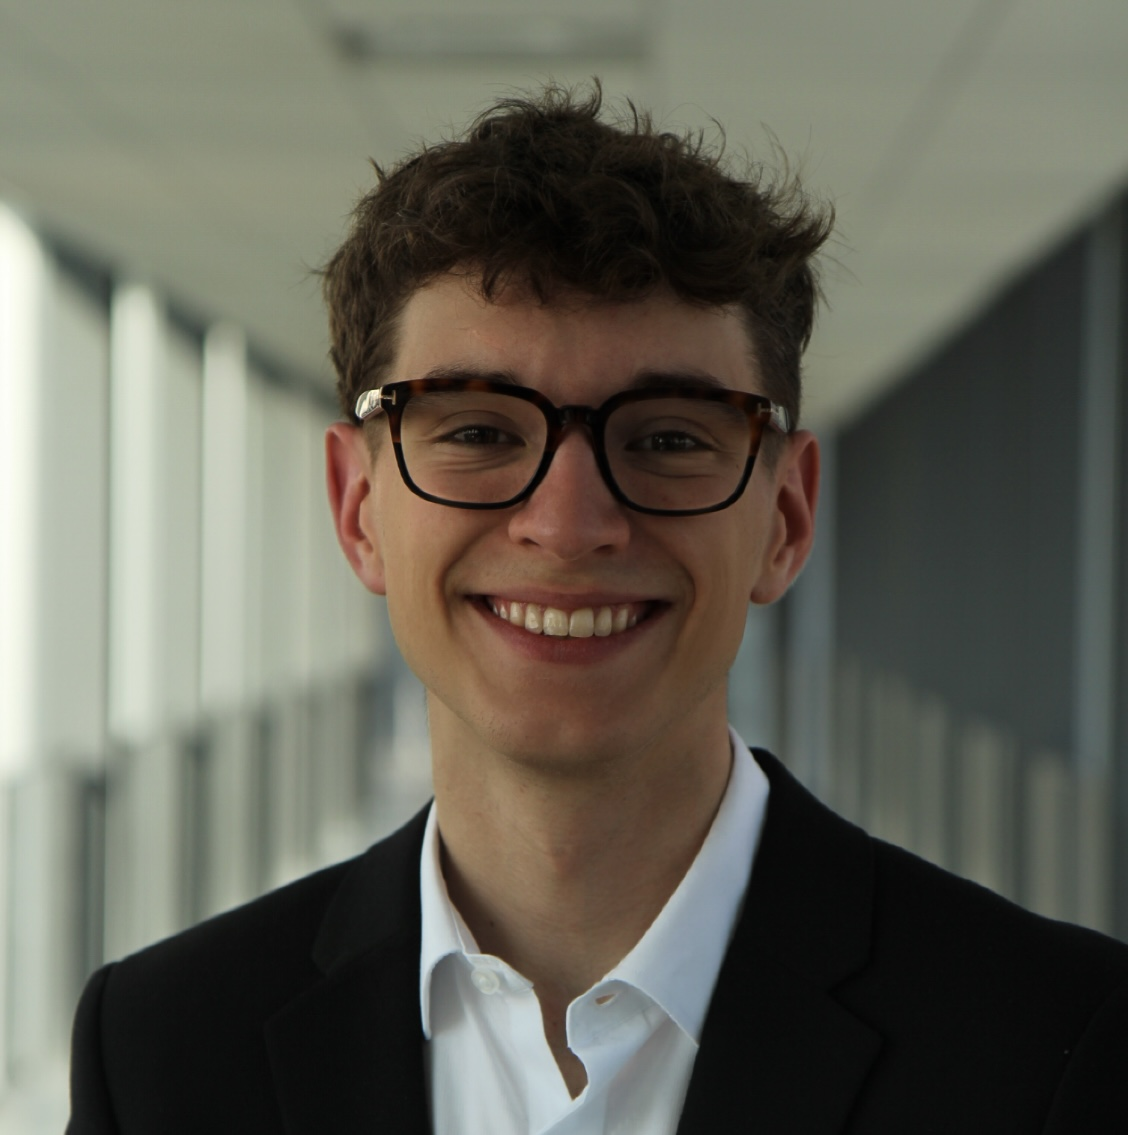
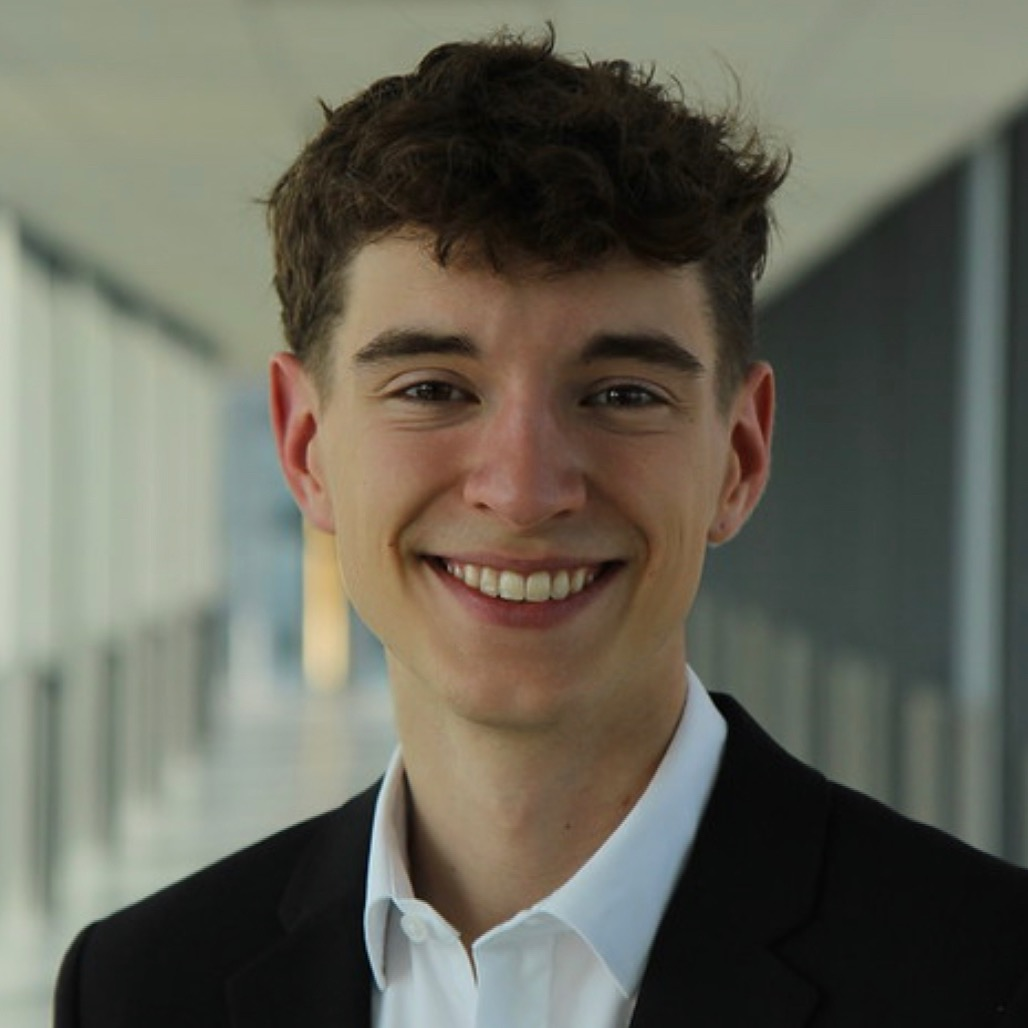
New UI and updates

diff --git a/components/Navbar.jsx b/components/Navbar.jsx
@@ -1,68 +1,83 @@
 import Image from 'next/image';
 import Link from 'next/link';
-import {AiOutlineMenu, AiOutlineClose, AiOutlineMail} from 'react-icons/ai'
-import {FaGithub, FaLinkedinIn} from 'react-icons/fa'
-import React, {useState, useEffect} from 'react'
-import logoIcon from '../public/Assets/mainlogo.png'
+import { AiOutlineMenu, AiOutlineClose, AiOutlineMail } from 'react-icons/ai';
+import { FaGithub, FaLinkedinIn } from 'react-icons/fa';
+import React, { useState, useEffect } from 'react';
+import logoIcon from '../public/Assets/mainlogo.png';
 
 const Navbar = () => {
-    const [nav, setNav] = useState(false)
-    const [shadow, setShadow] = useState(false)
+    const [nav, setNav] = useState(false);
+    const [shadow, setShadow] = useState(false);
+    const [navbarVisible, setNavbarVisible] = useState(false);
+    const [linksVisible, setLinksVisible] = useState(false); // State to control the visibility of the links
 
     const handleNav = () => {
-        setNav(!nav)
-    }
+        setNav(!nav);
+    };
 
     useEffect(() => {
-        const handleShadow = () => {
-            if (window.scrollY >= 90) {
-                setShadow(true)
-            } else {
-                setShadow(false)
-            }
-        }
-        window.addEventListener('scroll', handleShadow)
-    },[])
+        const handleScroll = () => {
+            const navbarHeight = 80;
+            const show = window.scrollY > (window.innerHeight - navbarHeight);
+            setShadow(show);
+            setNavbarVisible(show);
+            setLinksVisible(show);
+        };
 
-  return (
-    <div className={shadow ? 'fixed w-full h-20 shadow-xl z-[100]' : 'fixed w-full h-20 z-[100]'}>
-        <div className='flex justify-between items-center w-full h-full px-2 2xl:px-16 scroll-smooth bg-gray-100'>
-            <div className='mx-5'>
-            <Link href='/'>
-            <Image 
-                src={logoIcon}
-                alt="/" 
-                width='50' 
-                height='50'
-            />
-            </Link>
-            </div>
-            <div className='mx-5'>
-                <ul className='hidden md:flex'>
-                    <Link href='/'>
-                        <li onClick={()=> setNav(false)} className='ml-10 text-sm uppercase hover:border-b'>Home</li>
-                    </Link>
-                    <Link href='/#about'>
-                        <li onClick={()=> setNav(false)} className='ml-10 text-sm uppercase hover:border-b'>About</li>
-                    </Link>
-                    <Link href='/#work'>
-                        <li onClick={()=> setNav(false)} className='ml-10 text-sm uppercase hover:border-b'>Work</li>
-                    </Link>
-                    <Link href='/#projects'>
-                        <li onClick={()=> setNav(false)} className='ml-10 text-sm uppercase hover:border-b'>Projects</li>
-                    </Link>
-                    <Link href='/#skills'>
-                        <li onClick={()=> setNav(false)} className='ml-10 text-sm uppercase hover:border-b'>Skills</li>
-                    </Link>
-                    <Link href='/#contact'>
-                        <li onClick={()=> setNav(false)} className='ml-10 text-sm uppercase hover:border-b'>Contact</li>
-                    </Link>
-                </ul>
-                <div onClick={handleNav} className='md:hidden p-3 cursor-pointer'>
-                    <AiOutlineMenu size={25} />
+        window.addEventListener('scroll', handleScroll);
+        return () => window.removeEventListener('scroll', handleScroll);
+    }, []);
+
+    const scrollToSection = (sectionId) => {
+        const section = document.getElementById(sectionId);
+        if (section) {
+            section.scrollIntoView({ behavior: 'smooth', block: 'start' });
+        }
+        };
+
+    <li onClick={() => scrollToSection('work')} className='ml-10 text-sm uppercase hover:border-b cursor-pointer'>Work</li>
+
+    return (
+        <div className={`fixed w-full h-20 z-[100] transition-all duration-300 ${navbarVisible ? 'bg-gray-100 shadow-xl' : 'bg-transparent'}`}>
+            <div className='flex justify-between items-center w-full h-full px-2 2xl:px-16'>
+                <Link href='/' passHref>
+                    <div className='flex items-center cursor-pointer'>
+                        <Image 
+                            src={logoIcon}
+                            alt="/" 
+                            width='50' 
+                            height='50'
+                        />
+                    </div>
+                </Link>
+                <div>
+                    {linksVisible && (
+                        <ul className='hidden md:flex'>
+                            <li className='ml-10 text-sm uppercase hover:border-b cursor-pointer'>
+                                <Link href='/'>Home</Link>
+                            </li>
+                            <li className='ml-10 text-sm uppercase hover:border-b cursor-pointer'>
+                                <Link href='/#about'>About</Link>
+                            </li>
+                            <li className='ml-10 text-sm uppercase hover:border-b cursor-pointer'>
+                                <Link href='/#work'>Work</Link>
+                            </li>
+                            <li className='ml-10 text-sm uppercase hover:border-b cursor-pointer'>
+                                <Link href='/#projects'>Projects</Link>
+                            </li>
+                            <li className='ml-10 text-sm uppercase hover:border-b cursor-pointer'>
+                                <Link href='/#skills'>Skills</Link>
+                            </li>
+                            <li className='ml-10 text-sm uppercase hover:border-b cursor-pointer'>
+                                <Link href='/#contact'>Contact</Link>
+                            </li>
+                        </ul>
+                    )}
+                    <div onClick={handleNav} className='md:hidden p-3 cursor-pointer'>
+                        <AiOutlineMenu size={25} />
+                    </div>
                 </div>
             </div>
-        </div>
     <div className={nav ? 'md:hidden fixed left-0 top-0 w-full h-screen bg-black/70' : ''}>
         <div className={nav ? 'fixed left-0 top-0 w-[75%] sm:w-[60%] md:w-[45%] h-screen bg-[#ecf0f3] p-10 ease-in duration-500' : 'fixed left-[-100%] top-0 p-10 ease-in duration-500'}>
             <div>

diff --git a/components/Main.jsx b/components/Main.jsx
@@ -9,13 +9,13 @@ import mPageMobile from '../public/Assets/fronttit-mobile.png';
 
 const Main = () => {
   return (
-    <div id='home' className='w-full h-screen text-center relative flex flex-col items-center justify-center'>
-        <div className='hidden lg:block absolute top-0 left-0 min-w-full min-h-full z-0'>
-            <video autoPlay loop muted className='min-w-full min-h-full'>
+    <div id='home' className='w-full h-screen text-center flex flex-col items-center justify-center relative'>
+        <div className='hidden lg:block absolute top-0 left-0 w-full h-full z-0'>
+            <video autoPlay loop muted className='w-full h-full object-cover'>
                 <source src="/Assets/backG.mp4" type="video/mp4" />
             </video>
         </div>
-        <div className='max-w-[1240px] w-full h-full mx-auto p-2 z-10 relative flex flex-col items-center justify-center pt-32'>
+        <div className='max-w-[1240px] w-full h-full mx-auto p-2 z-10 relative flex flex-col items-center justify-center'>
             <div className='lg:hidden w-full flex justify-center'>
                 <Image
                 src={mPageMobile}
@@ -24,11 +24,11 @@ const Main = () => {
                 width={800}
                 />
             </div>
-            <div className='hidden lg:flex justify-center w-full'>
+            <div className='hidden lg:flex justify-center w-full pt-12'>
                 <Image
                 src={mPage}
                 alt='/'
-                height={800}
+                height={1000}
                 width={800}
                 />
             </div>
@@ -37,25 +37,22 @@ const Main = () => {
                     <div className='p-2 cursor-pointer hover:scale-150 ease-in duration-300 hover:border-b rounded-full bg-transparent xl:bg-white mx-4'>
                         <FaLinkedin />
                     </div>
-                </Link>
-                <Link href="https://github.com/AidanBilon" target="_blank">
+                    </Link>
+                    <Link href="https://github.com/AidanBilon" target="_blank">
                     <div className='p-2 cursor-pointer hover:scale-150 ease-in duration-300 hover:border-b rounded-full bg-transparent xl:bg-white mx-4'>
                         <FaGithub />
                     </div>
-                </Link>
-                <Link href="mailto:aidanbilon@gmail.com" target="_blank">
+                    </Link>
+                    <Link href="mailto:aidanbilon@gmail.com" target="_blank">
                     <div className='p-2 cursor-pointer hover:scale-150 ease-in duration-300 hover:border-b rounded-full bg-transparent xl:bg-white mx-4'>
                         <AiOutlineMail />
                     </div>
                 </Link>
             </div>
-            <h1 className='py-4'></h1>
             <Link href='/#about'>
                 <div className='text-black xl:text-white w-auto text-sm flex flex-col items-center font-extrabold'>
                     <p>Scroll Down</p>
-                    <div className='p-4 flex justify-center'>
-                        <IoIosArrowDown className='text-black xl:text-white'/>
-                    </div>
+                    <IoIosArrowDown className='text-black xl:text-white animate-bounce'/>
                 </div>
             </Link>
         </div>

diff --git a/components/About.jsx b/components/About.jsx
@@ -19,7 +19,7 @@ const About = () => {
         <div className='max-w-[1200px] m-auto md:grid grid-cols-3 gap-8'>
             <div className='col-span-2'>
                 <p className='uppercase text-2xl font-extrabold py-4'>About Me</p>
-                <p className='text-sm font-medium'>Welcome to my website portfolio! I&apos;m an engineering student at the University of Waterloo, interested in software development. I have experience and interest in ML/AI, and full-stack development. Additionally, I&apos;m looking into learning software integration in robotic development.</p>
+                <p className='text-sm font-medium'>Welcome to my website portfolio! I&apos;m an engineering student at the University of Waterloo, interested in software development. I have experience in Artificial Intelligence and all things autonomous robotics. Additionally, I&apos;m working software integration and embedded systems in robotic development.</p>
                 <p className='text-lg font-extrabold pt-4'>Website Tech Stack</p>
                 <div className='flex space-x-4'>
                   <Image
@@ -47,12 +47,10 @@ const About = () => {
                   height={30}
                   />
                 </div>
-                <p className='text-lg font-extrabold pt-4'>Skills</p>
-                <p className='py-2 text-sm font-medium'>To find associated skills in programming, web dev, and AI, scroll down (or click) and select the each skill.</p>
                 <p className='text-lg font-extrabold pt-4'>Projects</p>
-                <p className='py-2 text-sm font-medium'>The main page project section only highlights new projects that I&apos;ve worked on recently, click in the projects ssection to look at some other things I&apos;ve been working on.</p>
+                <p className='py-2 text-sm font-medium'>The main page project section only highlights new projects that I&apos;ve worked on recently, click on the projects section to look at some other things I&apos;ve been working on.</p>
             </div>
-            <div className='w-full h-auto m-auto rounded-md items-center justify-center fill'>
+            <div className='w-full h-auto m-auto rounded-md items-center justify-center fill border-solid border-4 border-black'>
                 <Image 
                 src={profPic} 
                 alt='/' 

diff --git a/components/Work.jsx b/components/Work.jsx
@@ -4,18 +4,17 @@ import Image from 'next/image';
 import Pwo from '../public/Assets/pwo.png';
 import Wsp from '../public/Assets/WSP_logo.png';
 import Rocket from '../public/Assets/rocketry.png';
-import water from '../public/Assets/water.png'
 
 const Work = () => {
-  return (
-    <div id='work' className='w-full md:h-screen p-2 flex items-center px-16'>
+    return (
+      <div id='work' className='w-full min-h-screen p-2 flex items-center py-16 px-16'>
       <Head>
         <title>Work Experience</title>
         <meta name="description" content="Relevant Industry Experience"></meta>
         <meta name="keywords" content="Aidan Bilon, Engineering Resume"></meta>
         <meta name="robots" content="index,follow"/>
       </Head>
-        <div className='max-w-[1200px] m-auto md:grid grid-cols-3 gap-8'>
+      <div className='max-w-[1200px] m-auto grid grid-cols-1 md:grid-cols-3 gap-8'>
             <div className='col-span-2'>
                 <p className='uppercase text-2xl font-extrabold'>Real-Time Embedded Software Group</p>
                 <p className='text-md font-bold'>Lead Autonomous Robotics Research Assistant</p>

diff --git a/components/Projects.jsx b/components/Projects.jsx
@@ -9,15 +9,15 @@ import car from '../public/Assets/carvroom.jpeg';
 
 const Projects = () => {
   return (
-    <div id='projects' className='w-full py-96'>
+    <div id='projects' className='w-full py-16'>
       <Head>
         <title>Projects</title>
         <meta name="description" content="Personal Projects"></meta>
         <meta name="keywords" content="Aidan Bilon, Engineering Resume"></meta>
         <meta name="robots" content="index,follow"/>
       </Head>
-        <div className='max-w-[1200px] mx-auto px-2 py-16'>
-            <p className='uppercase text-2xl font-extrabold pb-8'>Projects</p>
+      <div className='max-w-[1200px] mx-auto px-2'>
+        <p className='uppercase text-2xl font-extrabold pb-8'>Projects</p>
             <div className='grid md:grid-cols-2 gap-8'>
                 <ProjectItem 
                 title='Toyota Innovation Automatic Plug Plate Detection' 
